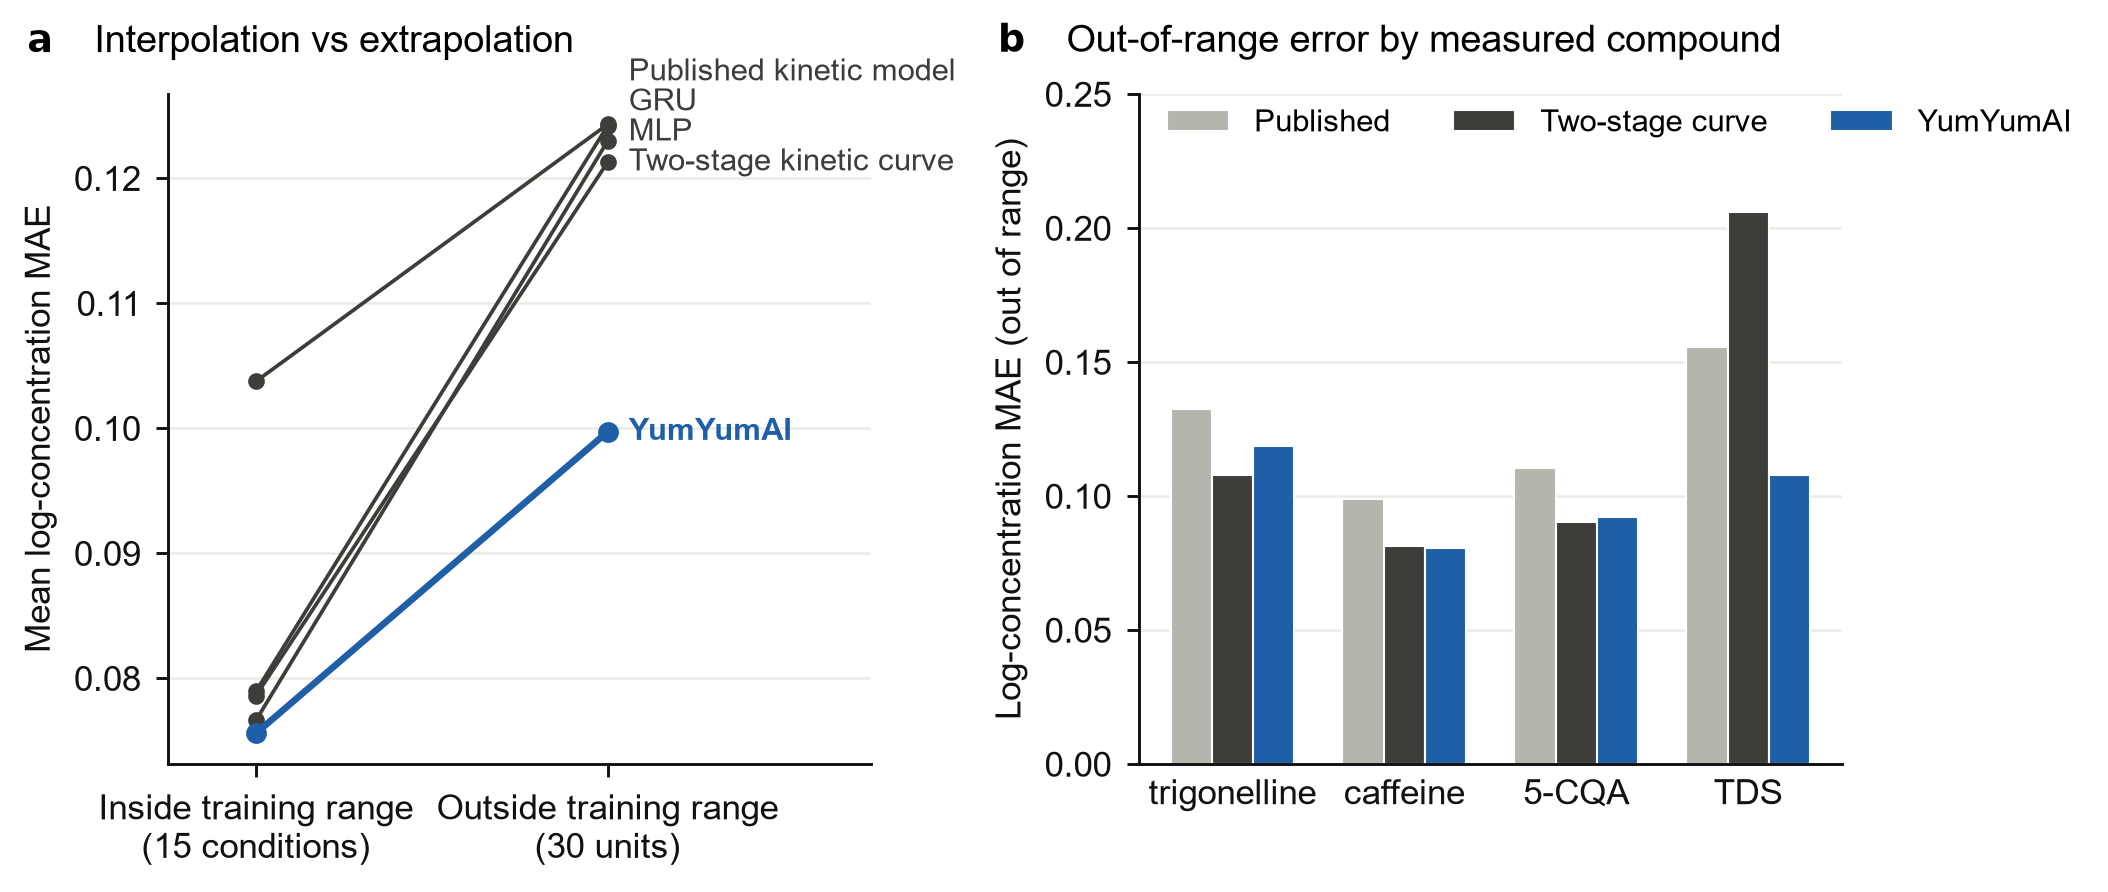
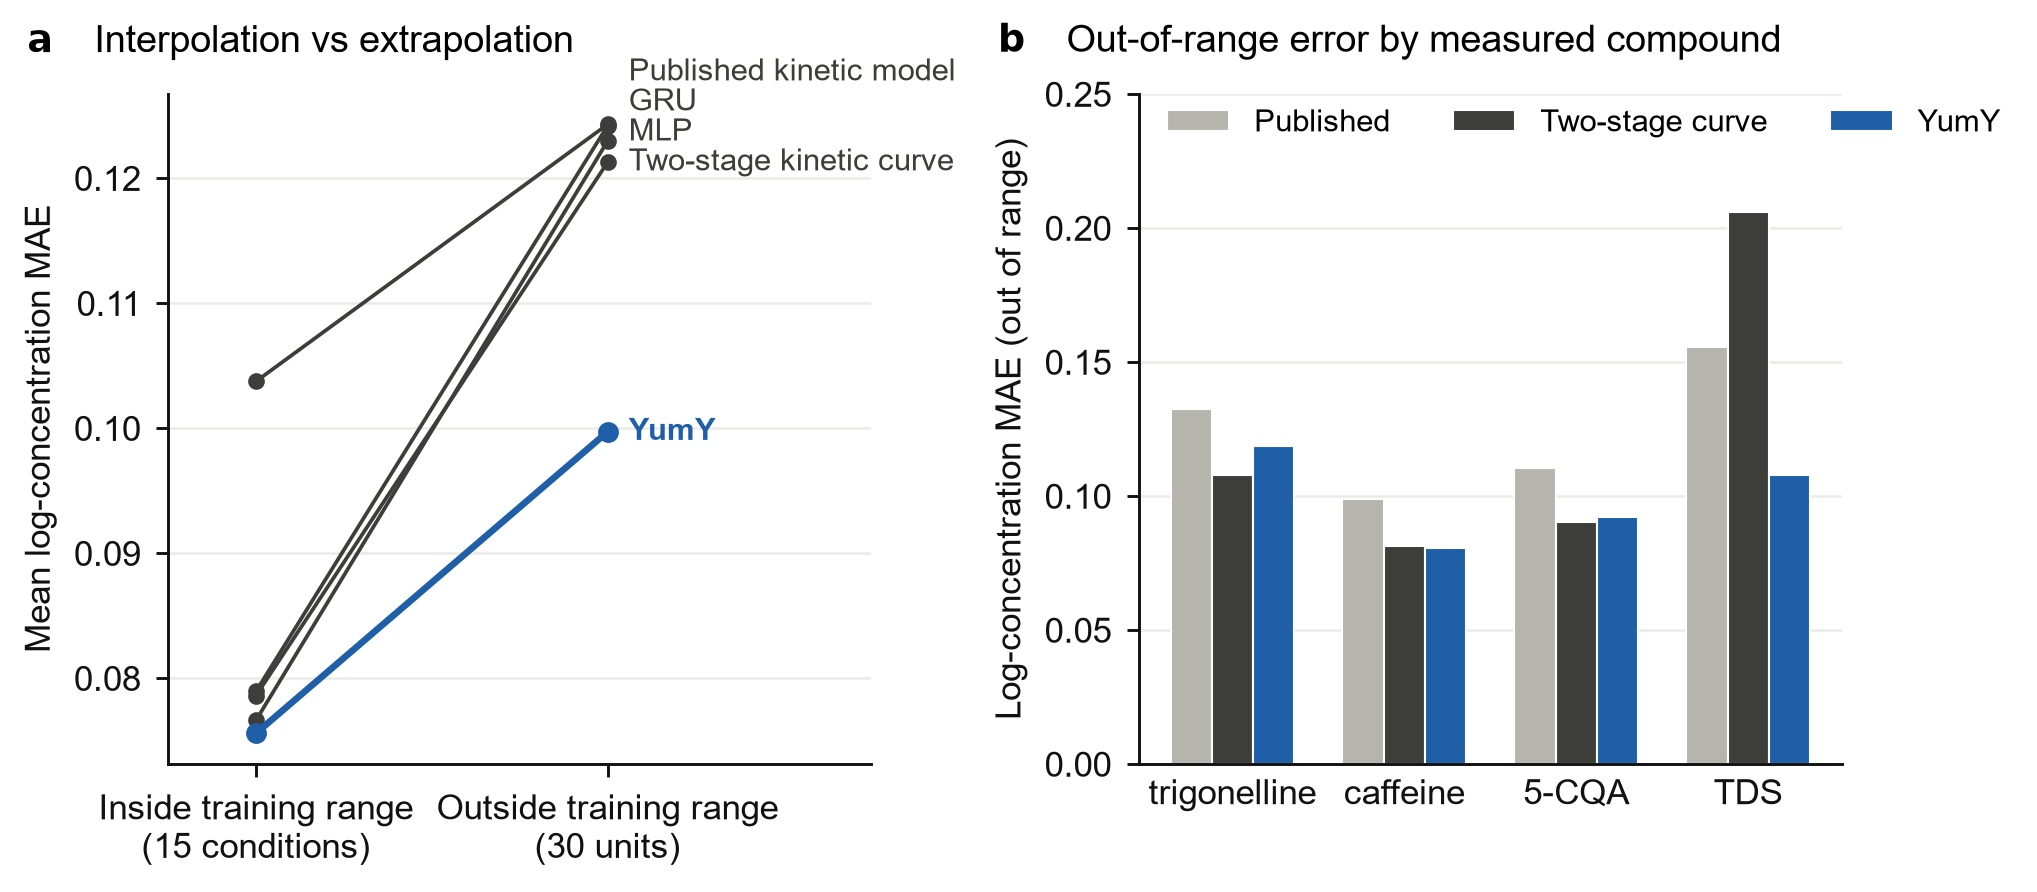
Rename to YumY; state physics-vs-ML extrapolation result

diff --git a/README.md b/README.md
@@ -1,4 +1,4 @@
-# YumYumAI: predicting how food processing changes flavor
+# YumY: predicting how food processing changes flavor
 
 I'm building a model that predicts how cooking and processing change a food's chemistry and, eventually, its taste.
 
@@ -19,7 +19,7 @@ seeds and a configuration fixed before seeing results.
 
 *Figure 1. (a) Error on held-out extreme brew settings. Grey points are individual held-out units (30); dots and bars
 are the mean and 95% bootstrap CI over units. (b) Per-unit paired difference against the best baseline; blue units
-favour YumYumAI. Shaded band: 95% bootstrap CI of the mean difference. Units share underlying conditions, so these
+favour YumY. Shaded band: 95% bootstrap CI of the mean difference. Units share underlying conditions, so these
 intervals are approximate and likely too narrow.*
 
 | Model | Error on unseen settings (log-concentration MAE, lower is better) |
@@ -28,9 +28,11 @@ intervals are approximate and likely too narrow.*
 | Two-stage kinetic curve | .121 |
 | Generic neural net (MLP) | .123 |
 | Generic sequence model (GRU) | .124 |
-| **YumYumAI** | **.100** |
+| **YumY** | **.100** |
 
-- YumYumAI beats the best alternative on **24 of 30** held-out units. The 30 units are built from only 15
+- Physics-based curves (.124, .121) and generic machine learning (.123, .124) do equally poorly on settings outside
+  the training range. YumY is the only model that holds up, beating the peer-reviewed model published with the data.
+- YumY beats the best alternative on **24 of 30** held-out units. The 30 units are built from only 15
   underlying conditions (one condition can sit at the extreme of several factors), so they are not independent and we
   do not report a p-value for this comparison.
 - On total dissolved solids the error drops by about half (.108 vs .206 for the two-stage curve).
@@ -50,7 +52,7 @@ consumer taste ratings. Each whole condition is held out in turn.
 
 - Predicted brew strength (TDS) matches a free linear regression (.091 vs .090 MAE). It beats the industry
   constant-yield brewing control chart (.174; p = .008).
-- On consumer bitterness, YumYumAI ties a direct regression (.102 vs .104), both well ahead of predicting the mean (.122).
+- On consumer bitterness, YumY ties a direct regression (.102 vs .104), both well ahead of predicting the mean (.122).
 
 ![Drip coffee](charts/fig3_drip_coffee.png)
 
